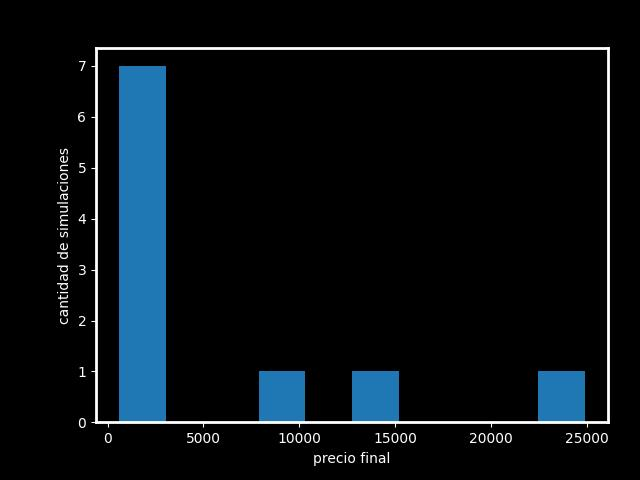
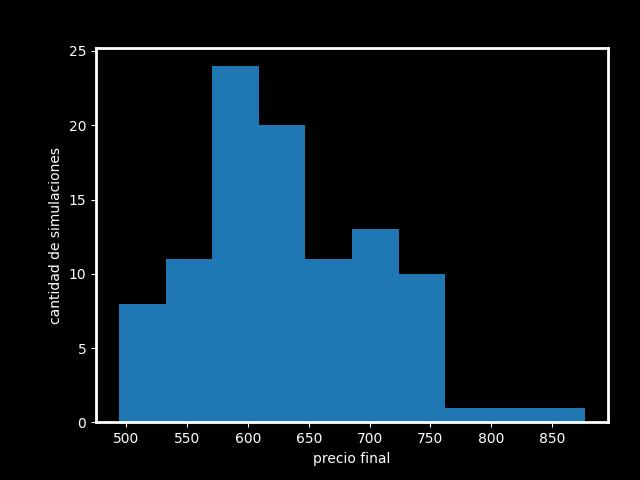
Muchos cambios + 'README.md'

diff --git a/app.py b/app.py
@@ -1,6 +1,7 @@
 import streamlit as st
 from PIL import Image
 from montecarlo_simulation.main import main
+from curl_cffi.requests.exceptions import HTTPError
 
 st.set_page_config(layout="wide")
 
@@ -65,18 +66,23 @@ st.sidebar.markdown(
     """,
     unsafe_allow_html=True
 )
-ticker = st.sidebar.text_input("Ticker")
+
+ticker = st.sidebar.text_input(
+    "Ticker",
+    value="MSFT"
+)
+
 iteraciones = st.sidebar.number_input(
     "Cantidad de días a simular",
     min_value=1,
     step=1,
-    value=1000
+    value=60
 )
 n_simulaciones = st.sidebar.number_input(
     "Cantidad de simulaciones",
     min_value=10,
     step=1,
-    value=10
+    value=100
 )
 
 if st.sidebar.checkbox("Personalizar drift"):
@@ -89,9 +95,13 @@ if st.sidebar.checkbox("Personalizar drift"):
         format="%.5f")
 else: drift_simulado = None
 
-if st.sidebar.button("Correr simulación"):
-    drift_historico, precio_min, precio_max, retorno_min, retorno_max, p_ganancia, p_perdida, p10, p90 = main(ticker, iteraciones, n_simulaciones, drift_simulado)
-    
+def mostrar_simulacion():
+    try:
+        drift_historico, precio_min, precio_max, retorno_min, retorno_max, p_ganancia, p_perdida, p10, p90 = main(ticker, iteraciones, n_simulaciones, drift_simulado)
+    except HTTPError:
+        st.error(f"❌ El ticker '{ticker}' no existe o no se pudo obtener información.")
+        return
+
     min_placeholder.metric("Mínimo ($)", f"{precio_min:.2f}")
     max_placeholder.metric("Máximo ($)", f"{precio_max:.2f}")
     ret_min_placeholder.metric("Mínimo (%)", f"{retorno_min:.2%}")
@@ -112,3 +122,15 @@ if st.sidebar.button("Correr simulación"):
 
     col1.image(img1, caption="Evolución de precios", width=600)
     col2.image(img2, caption="Distribución de precios finales", width=600)
+
+if "primera_vez" not in st.session_state:
+    st.session_state.primera_vez = True
+
+if st.session_state.primera_vez:
+    mostrar_simulacion()
+    st.session_state.primera_vez = False
+
+if st.sidebar.button("Correr simulación"):
+    if not ticker.strip():
+        st.warning("⚠ Ingresá un ticker antes de correr la simulación.")
+    else: mostrar_simulacion()

diff --git a/README.md b/README.md
@@ -1,0 +1,28 @@
+# Montecarlo Simulation Stock Prices
+
+Este repositorio provee un dashboard interactivo que permite visualizar los resultados de una simulación de Montecarlo para la proyección futura del precio de una acción. El dashboard está diseñado para ser amigable e interactivo, permitiendo a los usuarios elegir la acción a analizar y explorar cómo cambios en el drift y en otros parámetros modifican los resultados finales.
+
+https://blackschole.streamlit.app/
+
+## 🚀 Funcionalidades:
+
+1. **Visualización de los resultados de la simulación**: 
+   - Se visualiza la evolución simultánea de las distintas simulaciones de precios mediante un gráfico de líneas.
+   - Se visualiza la distribución de los precios finales mediante un histograma.
+   
+2. **Dashboard interactivo**:
+   - El dashboard permite actualizar los parámetros de la simulación de manera interactiva.
+   - Los usuarios pueden ingresar diferentes acciones, modificar el alcance y número de simulaciones, y personalizar el drift para observar cómo afectan estos cambios a los resultados finales.
+   - La simulación se ejecuta automáticamente al ingresar los parámetros y se muestran los resultados en tiempo real.
+   
+3. **Información estadística**:
+   - Se proporcionan estadísticas básicas como precios mínimos y máximos, percentiles 10 y 90, así como probabilidades de ganancia y de pérdida.
+
+## 🔧 Dependencias:
+
+- `yfinance`: Para obtener los precios actuales de las acciones.
+- `pandas`: Para manipulación de datos.
+- `numpy`: Para operaciones numéricas.
+- `matplotlib`: Para visualización de gráficos.
+- `streamlit`: Para crear el dashboard interactivo.
+- `curl_cffi`: Para manejo de errores HTTP.
